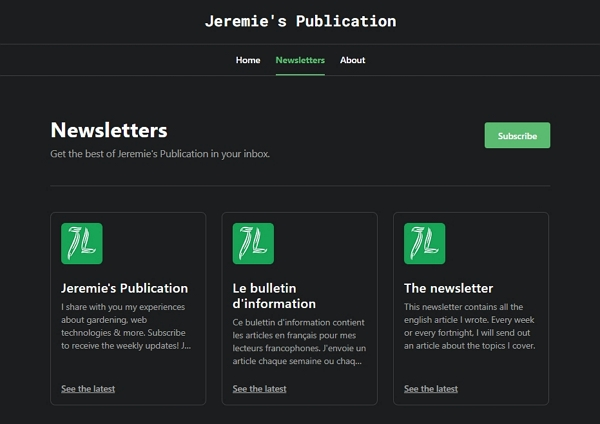
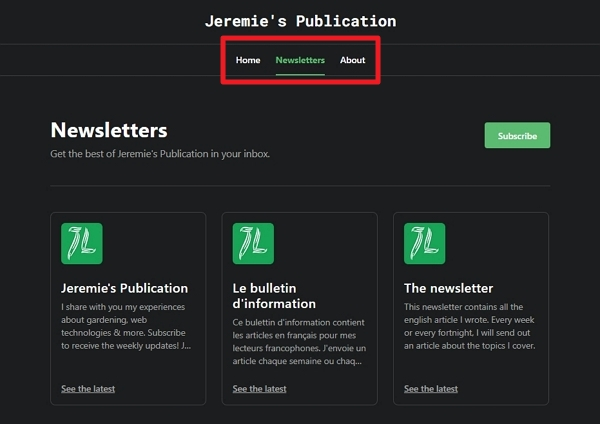
publish articles 2023-06-07

Changed region(s): [[0.36, 0.0613, 0.66, 0.2146]]

diff --git a/docs/.vuepress/config.js b/docs/.vuepress/config.js
@@ -1,4 +1,4 @@
-const version = '1.0.651';
+const version = '1.0.652';
 
 import { defineUserConfig } from '@vuepress/cli';
 import { viteBundler } from '@vuepress/bundler-vite';

diff --git a/docs/2023/06/comment-configurer-substack-avec-plusieurs-langues-en-2023/README.md b/docs/2023/06/comment-configurer-substack-avec-plusieurs-langues-en-2023/README.md
@@ -2,7 +2,7 @@
 title: 'Comment configurer Substack avec plusieurs langues en 2023'
 description: "Regardons ensemble les étapes pour configurer votre publication afin que vous puissiez fournir du contenu en deux langues."
 heroImage: /images/2023-06-06-substack-logo.avif
-heroAlt: Substack logo
+heroAlt: Le logo de Substack
 date: 2023-06-07
 head:
   - [
@@ -19,7 +19,7 @@ tag:
 article: false
 ---
 
-![Substack logo](/images/2023-06-06-substack-logo.avif)
+![Le logo de Substack](/images/2023-06-06-substack-logo.avif)
 
 Regardons ensemble les étapes pour configurer votre publication afin que vous puissiez fournir du contenu en deux langues.
 
@@ -28,120 +28,124 @@ Regardons ensemble les étapes pour configurer votre publication afin que vous p
 <!-- markdownlint-disable MD033 -->
 <p class="newsletter-wrapper"><iframe class="newsletter-embed" src="https://iamjeremie.substack.com/embed" frameborder="0" scrolling="no"></iframe></p>
 
-Lorsqu'il s'agit de créer votre newsletter, vous disposez d'un large choix de solutions.
+Lorsqu’il s’agit de créer votre bulletin d’information, vous disposez d’un large choix de solutions.
 
-J'ai choisi Substack en raison de ses valeurs : donner la priorité à ceux qui écrivent et fournir des outils efficaces pour les aider à développer leur base d'abonnés.
+J’ai choisi Substack en raison de ses valeurs : donner la priorité à ceux qui écrivent et fournir des outils efficaces pour les aider à développer leur base d’abonnés.
 
-Cependant, lorsque vous parlez couramment 2 langues, il n'est pas simple de maintenir une newsletter dans deux langues.
+Cependant, lorsque vous parlez couramment 2 langues, il n’est pas simple de maintenir une publication dans deux langues.
 
-Vous pourriez utiliser deux publications distinctes, mais j'avais écrit pas mal d'articles lorsque j'ai réalisé que je devais _ranger_ ma publication concernant le contenu bilingue.
+Vous pourriez utiliser deux publications distinctes, mais j’avais déjà écrit un bon nombre d’articles lorsque j’ai réalisé que je devais _ranger_ ma publication concernant le contenu bilingue.
 
-De plus, certaines parties de la publication ne peuvent pas encore être traduites.
+De plus, certaines parties de la publication ne peuvent pas encore être traduites de toute façon.
 
-## L'anglais doit être la langue par défaut
+## L’anglais doit être la langue par défaut
 
-Aujourd'hui, vous ne pouvez pas configurer tout le contenu dans votre langue préférée.
+Aujourd’hui, vous ne pouvez pas configurer toutes les valeurs textuelles dans votre langue préférée, hors le contenu de vos articles.
 
 Ce qui suit sera en anglais, alors choisissez les valeurs avec soin :
 
 - le nom de la publication,
-- la description courte (elle peut inclure les deux langues, mais elle est limitée à 258 caractères…),
+- la description courte (elle peut inclure les deux langues, mais elle est limitée à 258 caractères…),
 - les Catégories,
 - le logo,
-- la photo de couverture, affichée sur la page d'accueil,
+- la photo de couverture, affichée sur la page d’accueil,
 - le design du site, qui couvre simplement la couleur principale, la mise en page et la police,
-- les détails de la publication, avec votre nom, vos droits d'auteur et votre adresse postale.
+- les détails de la publication, avec votre nom, vos droits d’auteur et votre adresse postale.
+
+Quelques liens de navigation seront toujours en anglais, pour l’instant. Cependant, les microformulaires de souscription sont traduits en fonction de la langue principale de votre navigateur.
+
+Par exemple, sur mon profil principal avec Chrome, je vois ceci :
+
+![Formulaire de souscription avec un profil Chrome en anglais](./images/subscription-embed-on-a-english-chrome-profile.jpg)
+
+Avec un profile chrome en français, je vois cela :
+
+![Formulaire de souscription avec un profil Chrome en français](./images/subscription-embed-on-a-french-chrome-profile.jpg)
 
 En ce qui concerne les éléments suivants, nous les examinerons dans les paragraphes suivants :
 
 - la page _À propos_,
-- le mail de bienvenue,
+- le e-mail de bienvenue,
 - la navigation,
 - les Sections,
-- les paramètres de bannière, d'en-tête et de pied de page d'e-mail
+- les paramètres de bannière, d’en-tête et de pied de page d’e-mail
 - la page de désinscription des e-mails
 
 ## Configurer la page _À propos_
 
-Je choisis d'écrire le contenu de cette page en deux langues.
+J’ai choisi d’écrire le contenu de cette page en deux langues.
 
-Vous pouvez [le voir ici](https://iamjeremie.substack.com/about).
+Vous pouvez [la visualiser ici](https://iamjeremie.substack.com/about).
 
-La configuration est simple : j'utilise `heading2` pour séparer le contenu de chaque langue.
+La configuration est simple : j’utilise `heading2` pour séparer le contenu de chaque langue.
 
-J'ai ajouté un lien vers mon blog pour des informations plus détaillées, qui est, bien sûr, disponible en deux langues.
+J’ai aussi ajouté un lien vers mon blog pour des informations plus détaillées, qui est, bien sûr, disponible en deux langues.
 
-## Configuration des sections pour créer une newsletter par langue
+## Configuration des sections pour créer un bulletin d’information par langue
 
-Ensuite, nous allons créer les sections, également appelées _newsletters_ ou bulletins d'information.
+Ensuite, nous allons créer les sections, également appelées _newsletters_ ou bulletins d’information.
 
-Pour chacun, vous pouvez personnaliser :
+Pour chacun, vous pouvez personnaliser :
 
 - le titre
 - la description
-- le nom de l'expéditeur de l'e-mail, si votre nom défini ci-dessus dans les détails de la publication n'est pas adapté à la langue avec laquelle vous traitez.
-- l'URL web de la rubrique/newsletter.
-- le fait que vous souhaitiez masquer les publications sous cette rubrique depuis la page d'accueil.
+- le nom de l’expéditeur de l’e-mail, si votre nom défini ci-dessus dans les détails de la publication n’est pas adapté à la langue avec laquelle vous traitez.
+- l’URL web de la rubrique ou du bulletin d’information.
+- le fait que vous souhaitiez masquer les publications sous cette rubrique depuis la page d’accueil.
 
-> La sous-pile dit :
->
-> > Si cette case est cochée, les publications de cette section n'apparaîtront pas sur la page d'accueil de votre publication ni sur les archives de la publication. Les messages apparaîtront toujours dans la page de la section.
+Substack dit à propos ce point :
 
-- et un logo, si vous souhaitez qu'il soit différent du logo de la Publication.
+> Si cette case est cochée, les publications de cette section n’apparaîtront ni sur la page d’accueil de votre publication ni sur les archives de la publication. Les messages apparaîtront toujours dans la page de la section.
+
+- et un logo, si vous souhaitez qu’il soit différent du logo de la Publication.
 
 ## Configurer la navigation
 
-Une fois les sections créées, vous pouvez ranger la navigation.
+Une fois les sections créées, vous pouvez organiser la navigation, visible en haut de chaque page de votre publication.
 
-Je ne me souviens pas exactement de la valeur par défaut, mais vous aurez:
+Je ne me souviens pas exactement des valeurs par défaut, mais vous aurez :
 
-- la page d'accueil,
+- la page d’accueil,
 - la page Archives,
 - la page _À propos_,
 - chaque page _Section_,
-- et la page Newsletters
+- et la page « Newsletters »
 
-Je cache la page Archive et les Sections (qui sont ajoutées automatiquement).
+Je cache la page Archive et les Sections (qui sont ajoutées automatiquement au moment de leur création).
 
-Cela vous donnera un résultat soigné:
+Cela vous donnera un résultat soigné (mise en avant en rouge) :
 
-![La page "Bulletins d'information" avec une navigation propre](./images/the-newsletter-page-with-a-clean-navigation.jpg)
+![La page « Bulletins d’information » avec une navigation propre](./images/the-newsletter-page-with-a-clean-navigation.jpg)
 
-## Configurer l'e-mail de bienvenue
+## Configurer l’e-mail de bienvenue
 
-De même, l'e-mail de bienvenue est écrit en utilisant `heading3` pour séparer les langues (`heading2` est utilisé pour le titre).
+De même, l’e-mail de bienvenue est écrit en utilisant `heading3` pour séparer les langues (`heading2` est utilisé pour le titre).
 
-Ce qui est important ici, c'est la section que vous ajouterez pour expliquer au nouvel abonné comment activer les notificaitons de la publication ou sur un bulletin d'information sélectionné (peut-être que votre abonné ne parle que le français, par exemple).
+Ce qui est important ici : vous ajouterez pour expliquer au nouvel abonné comment activer les notifications de la publication ou sur un bulletin d’information sélectionné (peut-être que votre abonné ne parle que le français, par exemple).
 
-![Aider l'abonné à choisir ses opt-ins](./images/helping-the-subscriber-to-pick-his-optins.jpg)
+![Aider l’abonné à choisir ses opt-ins](./images/helping-the-subscriber-to-pick-his-optins.jpg)
 
-Dans mon cas, je devrai écrire un message spécial à mes abonnés français actuels pour les aider à s'abonner à la newsletter en français uniquement.
+Dans mon cas, je devrai écrire un article spécial à mes abonnés français actuels, afin de les aider à s’abonner au bulletin d'information en français uniquement.
 
-## Configurer l'e-mail de bienvenue dans les deux langues
+Voici [mon e-mail de bienvenue](./welcome-email.md).
 
-Il est maintenant temps de configurer l'e-mail de bienvenue.
+## Configurer l’e-mail de désinscription dans les deux langues
 
-Pour ce faire, nous devions configurer les sections, car, dans mon cas, j'ai inclus les liens de chaque section dans le bloc de langue respectif de l'e-mail.
-
-Ici [mon email de bienvenue](./welcome-email.md).
-
-## Configurer l'e-mail de désinscription dans les deux langues
-
-Tout comme vous l'avez fait pour l'e-mail de bienvenue, vous utiliserez les mêmes techniques pour définir le contenu bilingue sur l'e-mail de désinscription.
+Tout comme vous l’avez fait pour l’e-mail de bienvenue, vous utiliserez les mêmes techniques pour définir le contenu bilingue sur l’e-mail de désinscription.
 
 ## Le faites-vous différemment
 
-Faites-le moi savoir dans le commentaire!
+Faites-le-moi savoir dans les commentaires !
 
-J'ai demandé à Substack quand ils auront le support complet pour les langues dont nous avons besoin.
+J’ai demandé à Substack quand ils auront le support complet pour les langues dont nous avons besoin.
 
-Voici leur réponse :
+Voici leur réponse :
 
-![Réponse de l'équipe d'assistance de Substack à propos de la localisation du contenu](./images/reply-of-substack-support-team-about-localization-of-content.jpg)
+![Réponse de l’équipe d’assistance de Substack à propos de la localisation du contenu](./images/reply-of-substack-support-team-about-localization-of-content.jpg)
 
-Soyons patients et espérons une sortie prochainement !
+Soyons patients et espérons pour une mise à disposition dans peu de temps !
 
-:::centre
+: ::center
 ⏬⏬⏬
 :::
 

diff --git a/docs/2023/06/comment-configurer-substack-avec-plusieurs-langues-en-2023/welcome-email.md b/docs/2023/06/comment-configurer-substack-avec-plusieurs-langues-en-2023/welcome-email.md
@@ -18,13 +18,13 @@ If you are like me, you may wonder how to do that or this in a wide range of fie
 
 I would like to share my experiences and provide a good return on investment to you.
 
-You will start receiving updates right here in your inbox. You can also log in to Substack to read the archives in english or in french.
+You will start receiving updates right here in your inbox. You can also log in to [Substack](https://substack.com/) to read the archives [in english](https://iamjeremie.substack.com/s/the-newsletter?utm_source=blog_english) or [in french](https://iamjeremie.substack.com/s/le-bulletin-d-information?utm_source=blog_english).
 
 ### Enable the newsletter(s) you need
 
 From your SubStack account, you willl need to toggle the newsletter(s), either english, french or both, you want to receive notifications for.
 
-Use this link to access your settings. You will see this:
+Use [this link to access your settings](https://iamjeremie.substack.com/account). You will see this:
 
 ![Choose what you want to receive](./images/helping-the-subscriber-to-pick-his-optins.jpg)
 
@@ -39,7 +39,7 @@ Use the toggle to either:
 
 If you can’t find the newsletter, check your Spam folder. And please mark this address as ‘not spam.’ If the newsletter isn’t in your spam folder, either, you should look in the Promotions tab.
 
-You can always see everything on the SubStack website.
+You can always see everything on the [SubStack website](https://iamjeremie.substack.com/).
 
 Thanks again, and please recommend to your friends if you feel like it.
 
@@ -55,13 +55,13 @@ Si vous êtes comme moi, vous vous demandez peut-être comment faire ceci ou cel
 
 J'aimerais partager mes expériences et vous fournir un bon retour sur investissement.
 
-Vous commencerez à recevoir des mises à jour ici même dans votre boîte de réception. Vous pouvez également vous connecter au site Web pour lire les archives complètes (en anglais ou en en français).
+Vous commencerez à recevoir des mises à jour ici même dans votre boîte de réception. Vous pouvez également vous connecter [au site Web de Substack](https://substack.com/) pour lire les archives complètes ([en anglais](https://iamjeremie.substack.com/s/the-newsletter?utm_source=blog_english) ou [en français](https://iamjeremie.substack.com/s/le-bulletin-d-information?utm_source=blog_english)).
 
 ### Activez la ou les newsletters dont vous avez besoin
 
 Depuis votre compte SubStack, vous devrez basculer le ou les bulletins d’information, en anglais, en français ou les deux, pour lesquelles vous souhaitez recevoir des notifications.
 
-Utilisez ce lien pour accéder à vos paramètres concernant ma publication. Vous verrez ceci :
+Utilisez [ce lien pour accéder à vos paramètres concernant ma publication](https://iamjeremie.substack.com/account). Vous verrez ceci :
 
 ![Choisissez ce que vous voulez recevoir](./images/helping-the-subscriber-to-pick-his-optins.jpg)
 
@@ -77,10 +77,10 @@ Utilisez la bascule pour :
 
 Si vous ne trouvez pas le bulletin d’information, vérifiez votre dossier Spam. Et veuillez marquer cette adresse comme "non spam". Si le bulletin d’information ne se trouve pas non plus dans votre dossier Spam, vous devriez regarder dans l'onglet Promotions.
 
-Vous pouvez toujours tout voir sur le site Web.
+Vous pouvez toujours tout voir [sur le site Web de Substack](https://iamjeremie.substack.com/).
 
 Merci encore et recommendez moi à vos amis si vous en avez envie.
 
 <hr>
 
-[Revenir à l'article](./README.md#setup-the-welcome-email)
+[Revenir à l'article](./README.md#configurer-le-mail-de-bienvenue)

diff --git a/docs/2023/06/comment-recevoir-un-seul-bulletin-d-information-sur-ma-publication/README.md b/docs/2023/06/comment-recevoir-un-seul-bulletin-d-information-sur-ma-publication/README.md
@@ -1,8 +1,8 @@
 ---
-title: 'How to toggle a single newsletter on my Substack publication'
-description: "If you subscribed before April 2023, you will find this useful."
+title: 'Comment recevoir un seul bulletin d information sur ma publication'
+description: "Si vous vous êtes abonné avant avril 2023, cela vous sera utile."
 heroImage: /images/2023-06-06-substack-logo.avif
-heroAlt: Substack logo
+heroAlt: Le logo de Substack
 date: 2023-06-07
 head:
   - [
@@ -17,12 +17,12 @@ tag:
 article: false
 ---
 
-![Substack logo](/images/2023-06-06-substack-logo.avif)
+![Le logo de Substack](/images/2023-06-06-substack-logo.avif)
 
-If you subscribed before April 2023, you will find this useful.
+Si vous vous êtes abonné avant avril 2023, cela vous sera utile.
 
 <!-- more -->
 
-Following [this link](../how-to-setup-substack-publication-for-2-languages-in-2023/welcome-email.md#enable-the-newsletter-s-you-need), it will explain you how to opt-in to the newsletter you want.
+Cliquez [ce lien](../comment-configurer-substack-avec-plusieurs-langues-en-2023/welcome-email.md#activez-la-ou-les-newsletters-dont-vous-avez-besoin) pour découvrir comment configurer ce que vous recevez de ma publication.
 
-[Contact me](../../../page/contact-me/README.md) if you need further assistance.
+[Contactez-moi](../../../page/contactez-moi//README.md) si vous avez besoin d'aide supplémentaire.
